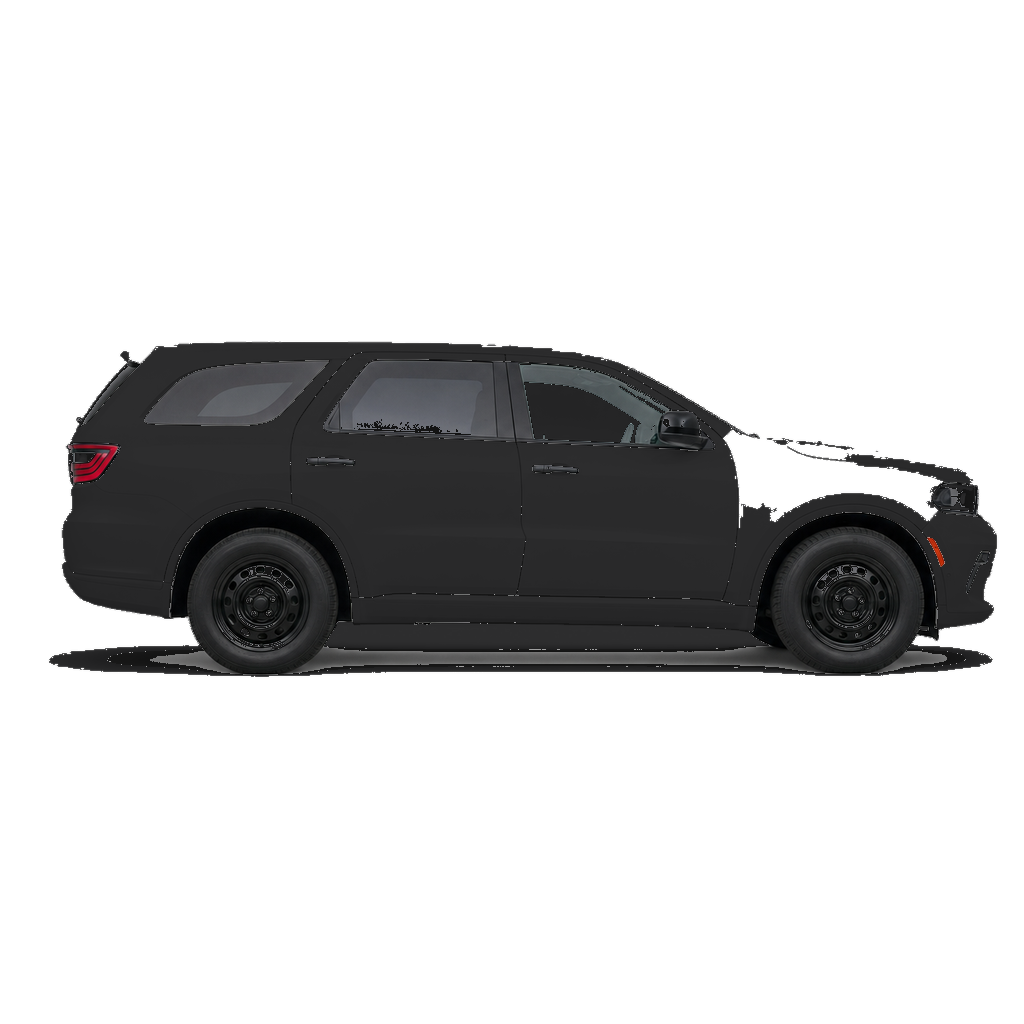
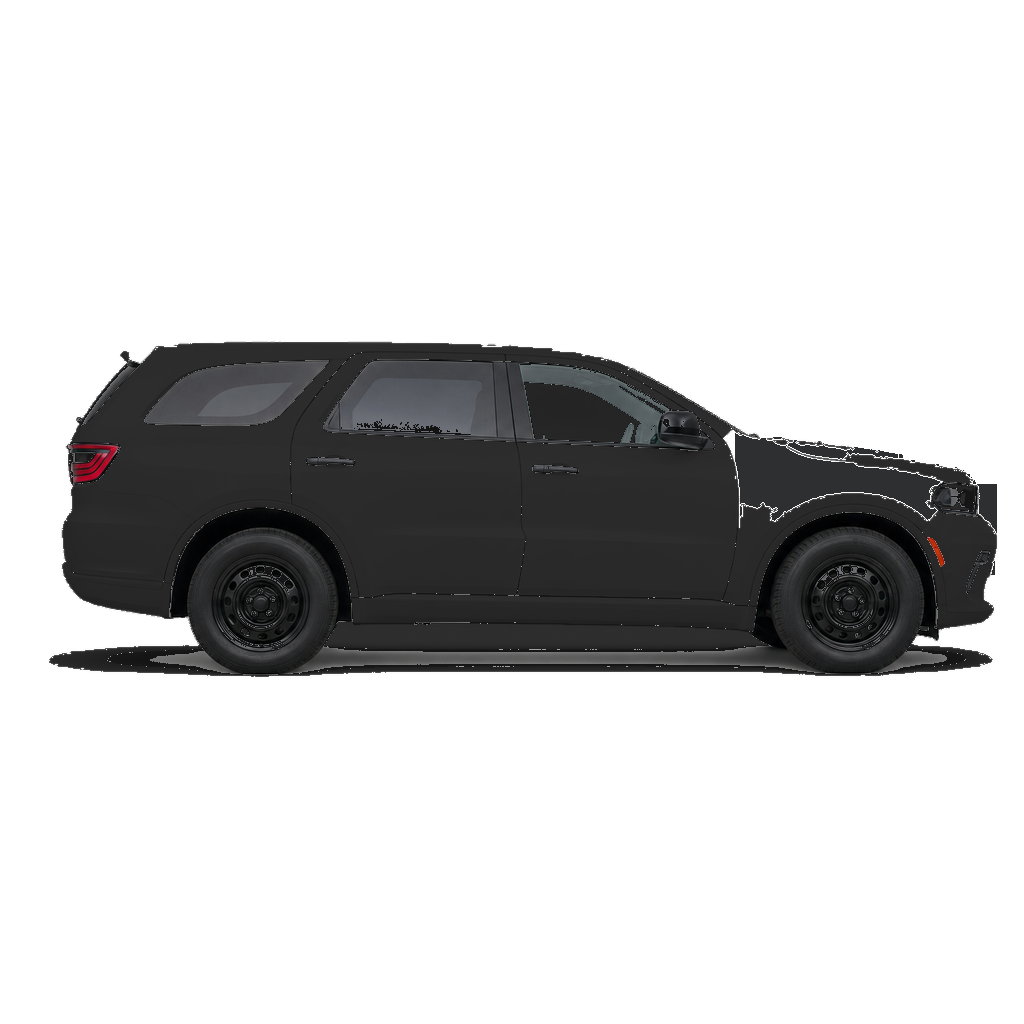
Fill side-plate body holes and scale Front ALGT to the roof cap
Left rear (white/black) and right front were interior alpha cutouts plus crude near-black fill; paint those pixels with door-sampled body color inside the original silhouette so the fuel door is no longer an island and nothing grows into the sky. Front ALGT draws at w:32 so the 53" bar sits on the cap; other views keep catalog w:46.

Changed region(s): [[0.7188, 0.4062, 1.0, 0.5]]

diff --git a/visualizer/index.html b/visualizer/index.html
@@ -368,6 +368,14 @@ function renderTabs(){
     el.appendChild(b);
   });
 }
+function catalogWidth(part,p){
+  /* Front roof is a smaller fraction of the stage than the bumper. Catalog
+     ALGT w:46 hangs off both sides of the cap; DYNA-6 72" is only w:38.
+     Keep other views at catalog w so Left/Right/Hero don't shrink. */
+  if(part && part.sku==="ALGT" && view==="front") return 32;
+  if(part && part.w!=null) return part.w;
+  return (p && p.w)!=null?p.w:10;
+}
 function renderStage(){
   var v=VIEWS.find(function(x){return x.id===view});
   document.getElementById("vehicleImg").src=bodyColor==="black"?v.imgB:v.imgW;
@@ -414,7 +422,7 @@ function renderStage(){
     el.className="light"+(p.id===sel?" selected":"");
     el.dataset.id=String(p.id);
     var part=CATALOG.find(function(c){return c.sku===p.sku});
-    var catW=(part&&part.w!=null)?part.w:(p.w||10);
+    var catW=catalogWidth(part,p);
     el.style.left=(p.x*100)+"%";
     el.style.top=(p.y*100)+"%";
     el.style.width=(catW*p.scale)+"%";
